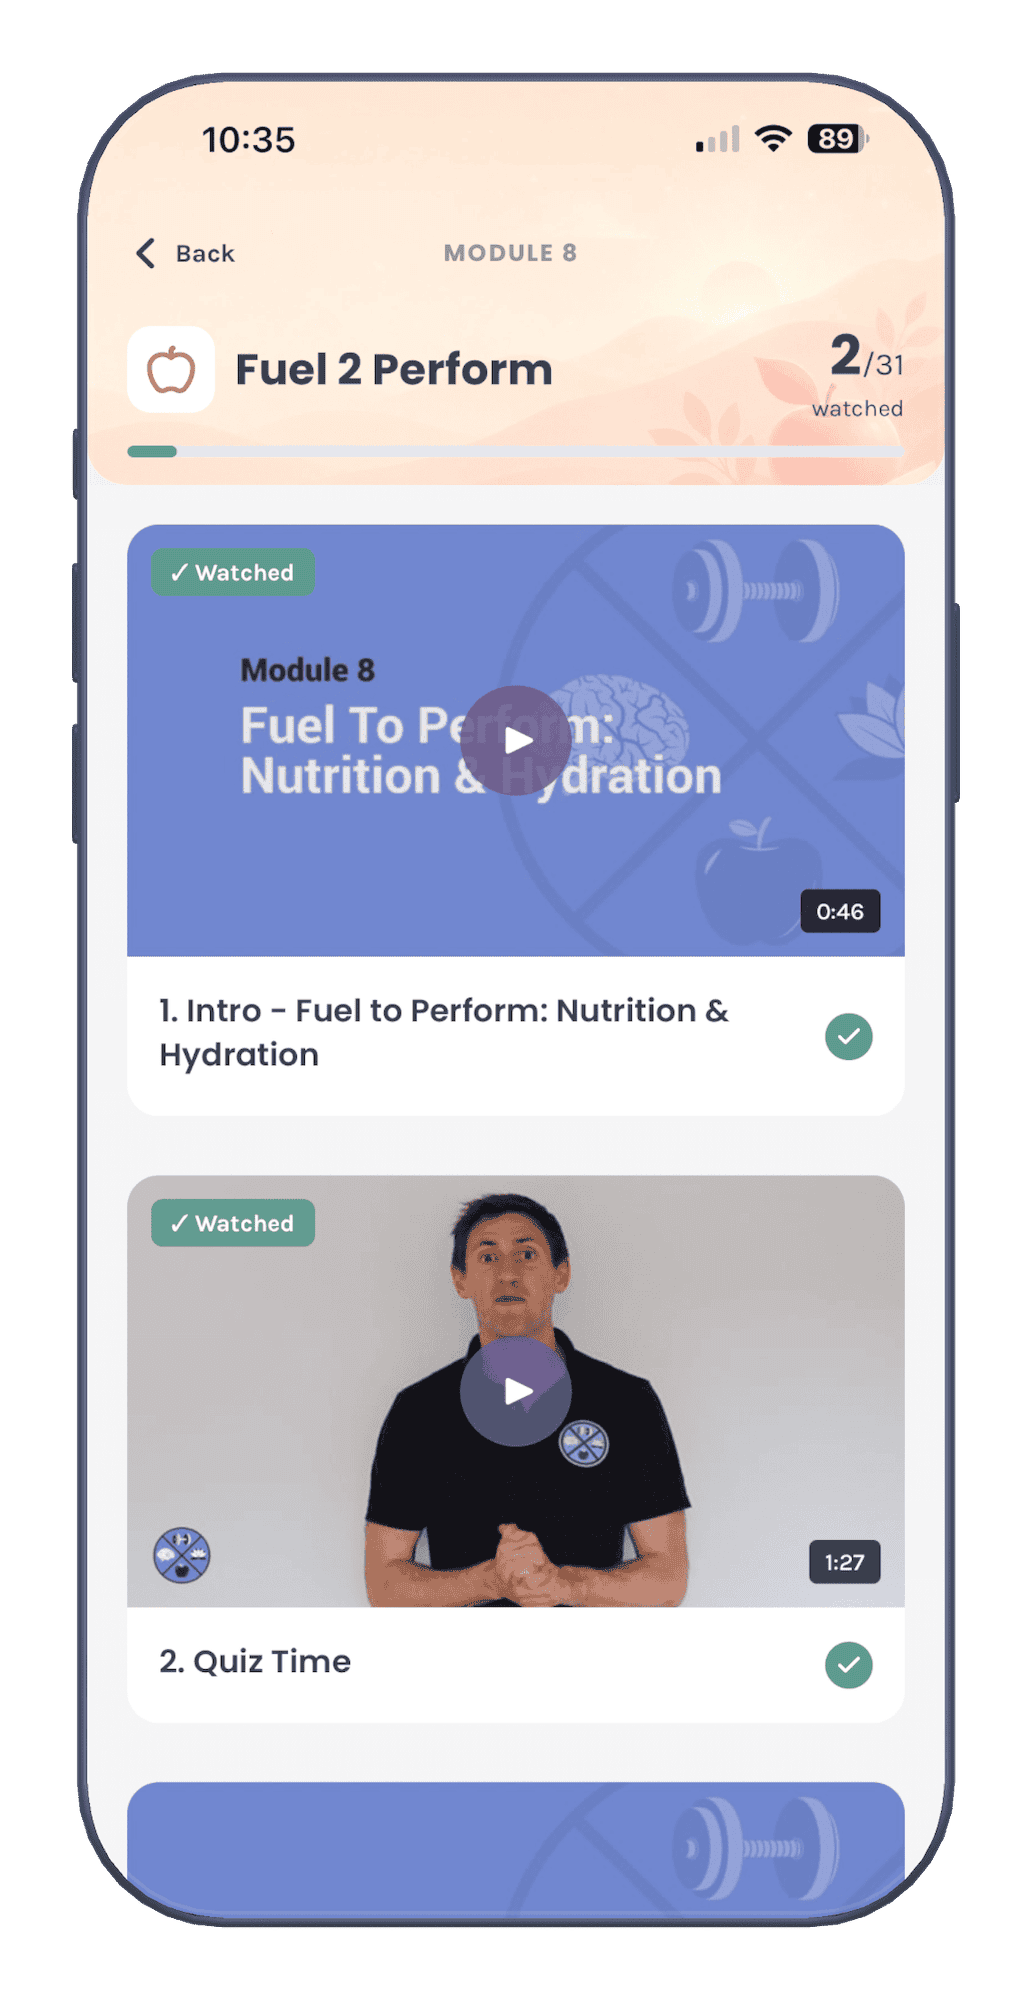
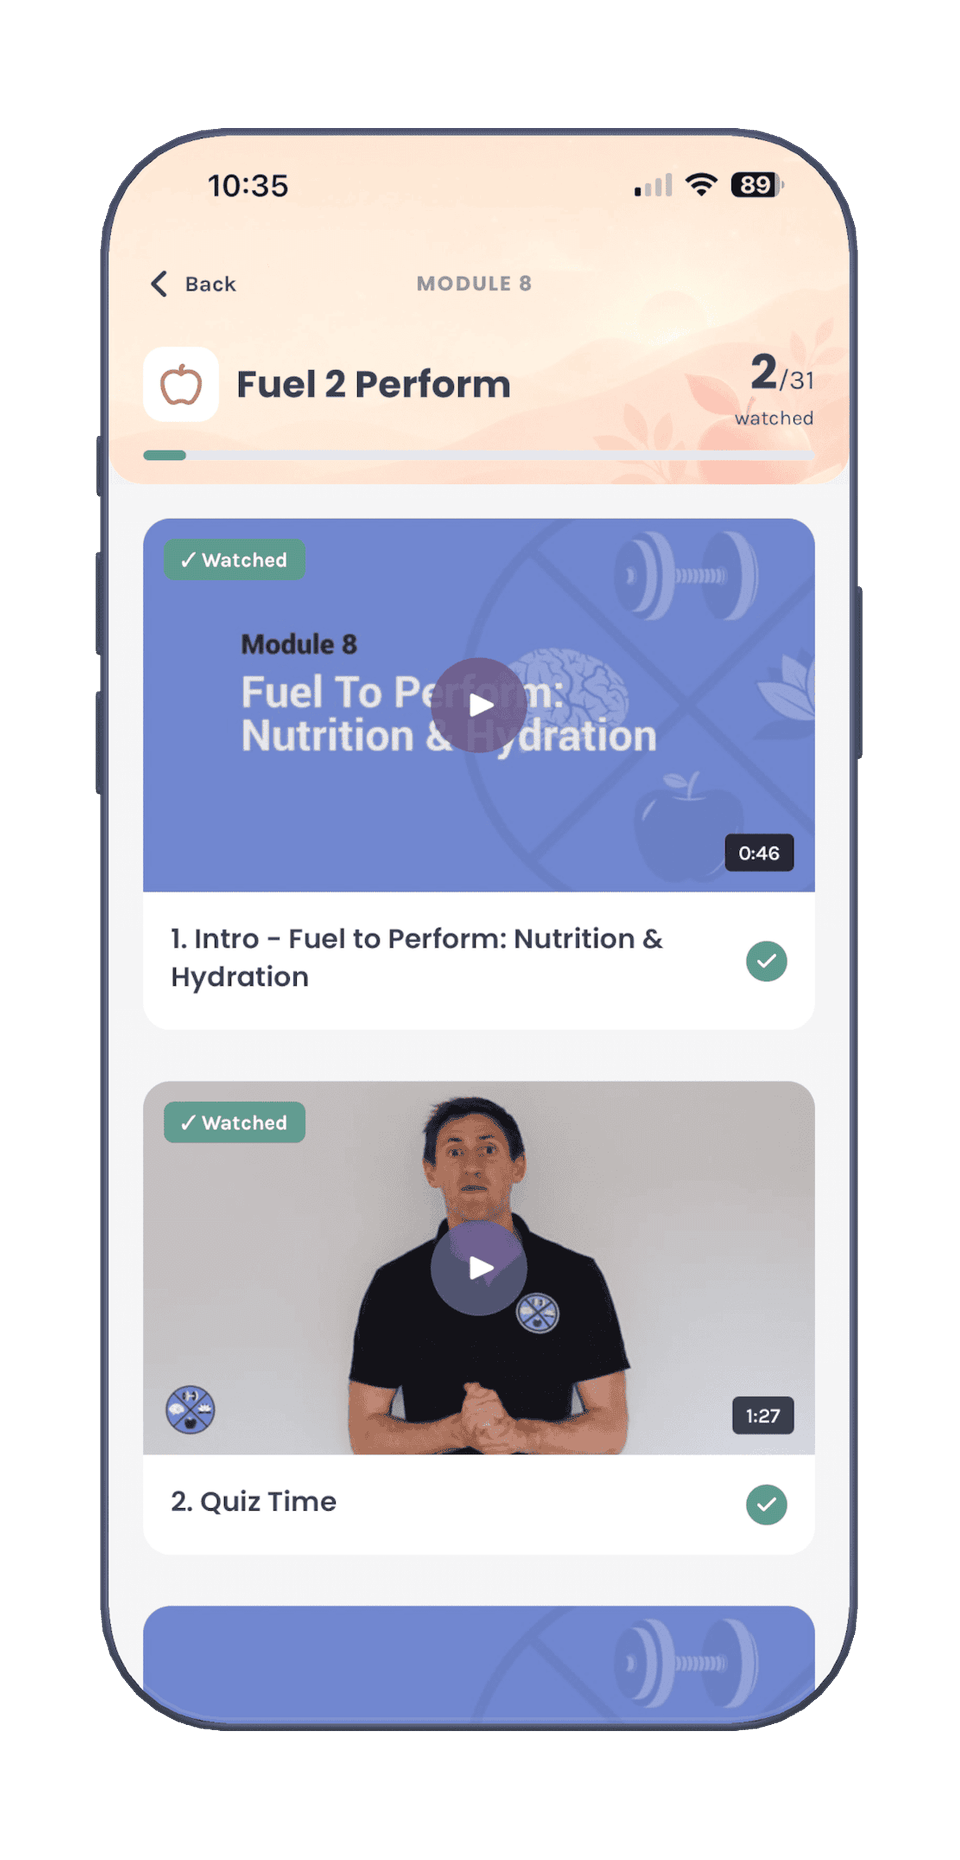
styling

Changed region(s): [[0.0625, 0.0312, 0.9375, 0.9667], [0.1562, 0.4989, 0.7188, 0.5301], [0.7812, 0.4989, 0.8438, 0.5301]]

diff --git a/app/onboarding.tsx b/app/onboarding.tsx
@@ -96,6 +96,11 @@ const WELCOME_PILL_PULSE_CYCLE_MS =
 const { width: SCREEN_WIDTH } = Dimensions.get("window");
 const H_PADDING = 24;
 const SLIDE_INNER = SCREEN_WIDTH - H_PADDING * 2;
+const COLLAGE_IMAGE_HEIGHT = 432;
+const COLLAGE_IMAGE_WIDTH = Math.min(
+  SLIDE_INNER * 0.8,
+  COLLAGE_IMAGE_HEIGHT * (960 / 1860),
+);
 const TESTIMONIAL_CAROUSEL_GAP = 16;
 const TESTIMONIAL_CAROUSEL_ITEM_WIDTH = SLIDE_INNER - TESTIMONIAL_CAROUSEL_GAP;
 const TESTIMONIAL_CAROUSEL_STRIDE = SLIDE_INNER;
@@ -1177,7 +1182,7 @@ export default function OnboardingScreen() {
                 <Text style={styles.slideTitle}>Workbooks</Text>
                 <Text style={[styles.slideBody, styles.slideBodyBeforeVisual]}>
                   Each module contains a workbook to solidify your learnings and
-                  keep you accountable, available in paper or on your phone.
+                  keep you accountable
                 </Text>
               </View>
               <View style={styles.slideVisual}>
@@ -1682,17 +1687,20 @@ const styles = StyleSheet.create({
     color: "#C7C2D6",
   },
   collageImageWrap: {
-    marginTop: 0,
-    marginHorizontal: -H_PADDING,
-    alignItems: "center",
-    justifyContent: "center",
-    height: 432,
+    height: COLLAGE_IMAGE_HEIGHT,
+    // Break out of slide padding and center against the full screen width.
+    width: SCREEN_WIDTH,
+    marginLeft: -H_PADDING,
     position: "relative",
   },
   collageImage: {
-    width: "80%",
-    height: 432,
-    alignSelf: "center",
+    // Fixed box so all three mockups share identical on-screen size
+    // (assets are normalized to the same 960×1860 canvas).
+    position: "absolute",
+    top: 0,
+    height: COLLAGE_IMAGE_HEIGHT,
+    width: COLLAGE_IMAGE_WIDTH,
+    left: (SCREEN_WIDTH - COLLAGE_IMAGE_WIDTH) / 2,
   },
   courseIntroPlayerWrap: {
     width: "100%",

diff --git a/app/category/[slug].tsx b/app/category/[slug].tsx
@@ -29,7 +29,7 @@ import {
 import { hrefModuleDigitalWorkbook } from '@/lib/module-workbook-route';
 import { MODULE_THEMES } from '@/constants/module-themes';
 import { AppFonts } from '@/constants/theme';
-import { pastelBoxStyle } from '@/constants/pastel-accents';
+import { pastelBoxStyle, getPastelAccent, mixHex } from '@/constants/pastel-accents';
 import {
   MODULE_CARD_BRIGHTEN_SCRIMS,
   MODULE_CARD_DARK_SCRIMS,
@@ -87,6 +87,12 @@ export default function CategoryScreen() {
 
   const watchedCount = watchedIds.length;
   const totalCount = videos.length;
+  const videoLinkAccent = getPastelAccent('red', isDark);
+  const videoLinkBackground = mixHex(
+    videoLinkAccent.background,
+    videoLinkAccent.accent,
+    0.15,
+  );
   const progressPercent = totalCount > 0 ? watchedCount / totalCount : 0;
 
   const moduleTheme = slug ? MODULE_THEMES[slug] : undefined;
@@ -405,7 +411,13 @@ export default function CategoryScreen() {
             {moduleLinks.map((link) => (
               <TouchableOpacity
                 key={link.url}
-                style={[styles.pdfRow, isDark && styles.pdfRowDark]}
+                style={[
+                  styles.pdfRow,
+                  {
+                    backgroundColor: videoLinkBackground,
+                    borderColor: videoLinkAccent.border,
+                  },
+                ]}
                 activeOpacity={0.7}
                 onPress={() => openModuleLink(link)}
                 accessibilityRole="button"
@@ -761,7 +773,7 @@ const styles = StyleSheet.create({
     color: '#8E8EA0',
   },
   workbookCard: {
-    backgroundColor: '#FFFFFF',
+    backgroundColor: '#E6F5F0',
     borderRadius: 20,
     padding: 20,
     shadowColor: '#000',

diff --git a/app/(tabs)/about.tsx b/app/(tabs)/about.tsx
@@ -135,10 +135,11 @@ function WhoAmISection({
     <View
       style={[
         styles.section,
-        isDark && styles.cardDark,
+        styles.bioCard,
         styles.cardShell,
         isDark && styles.cardShellDark,
-        styles.bioCard,
+        // After bioCard so dark bg isn't overwritten by the light card fill.
+        isDark && styles.cardDark,
         { borderTopColor: defaultAccentBarColor },
       ]}
     >
@@ -646,9 +647,9 @@ export default function AboutScreen() {
         style={[
           styles.section,
           styles.beforeAfterCard,
-          isDark && styles.cardDark,
           styles.cardShell,
           isDark && styles.cardShellDark,
+          isDark && styles.cardDark,
           { borderTopColor: defaultAccentBarColor },
         ]}
       >
@@ -930,7 +931,6 @@ const styles = StyleSheet.create({
   bioCard: {
     backgroundColor: "#FFFFFF",
     marginBottom: 24,
-    overflow: "visible",
   },
   beforeAfterCard: {
     backgroundColor: "#FFFFFF",

diff --git a/app/(tabs)/worksheets.tsx b/app/(tabs)/worksheets.tsx
@@ -214,7 +214,7 @@ export default function WorksheetsScreen() {
                     ]}
                     numberOfLines={2}
                   >
-                    Interactive exercises — answers save on this device
+                    Interactive exercises — answers save on phone
                   </Text>
                 </View>
                 <View pointerEvents="none" style={styles.workbookRowChevron}>
